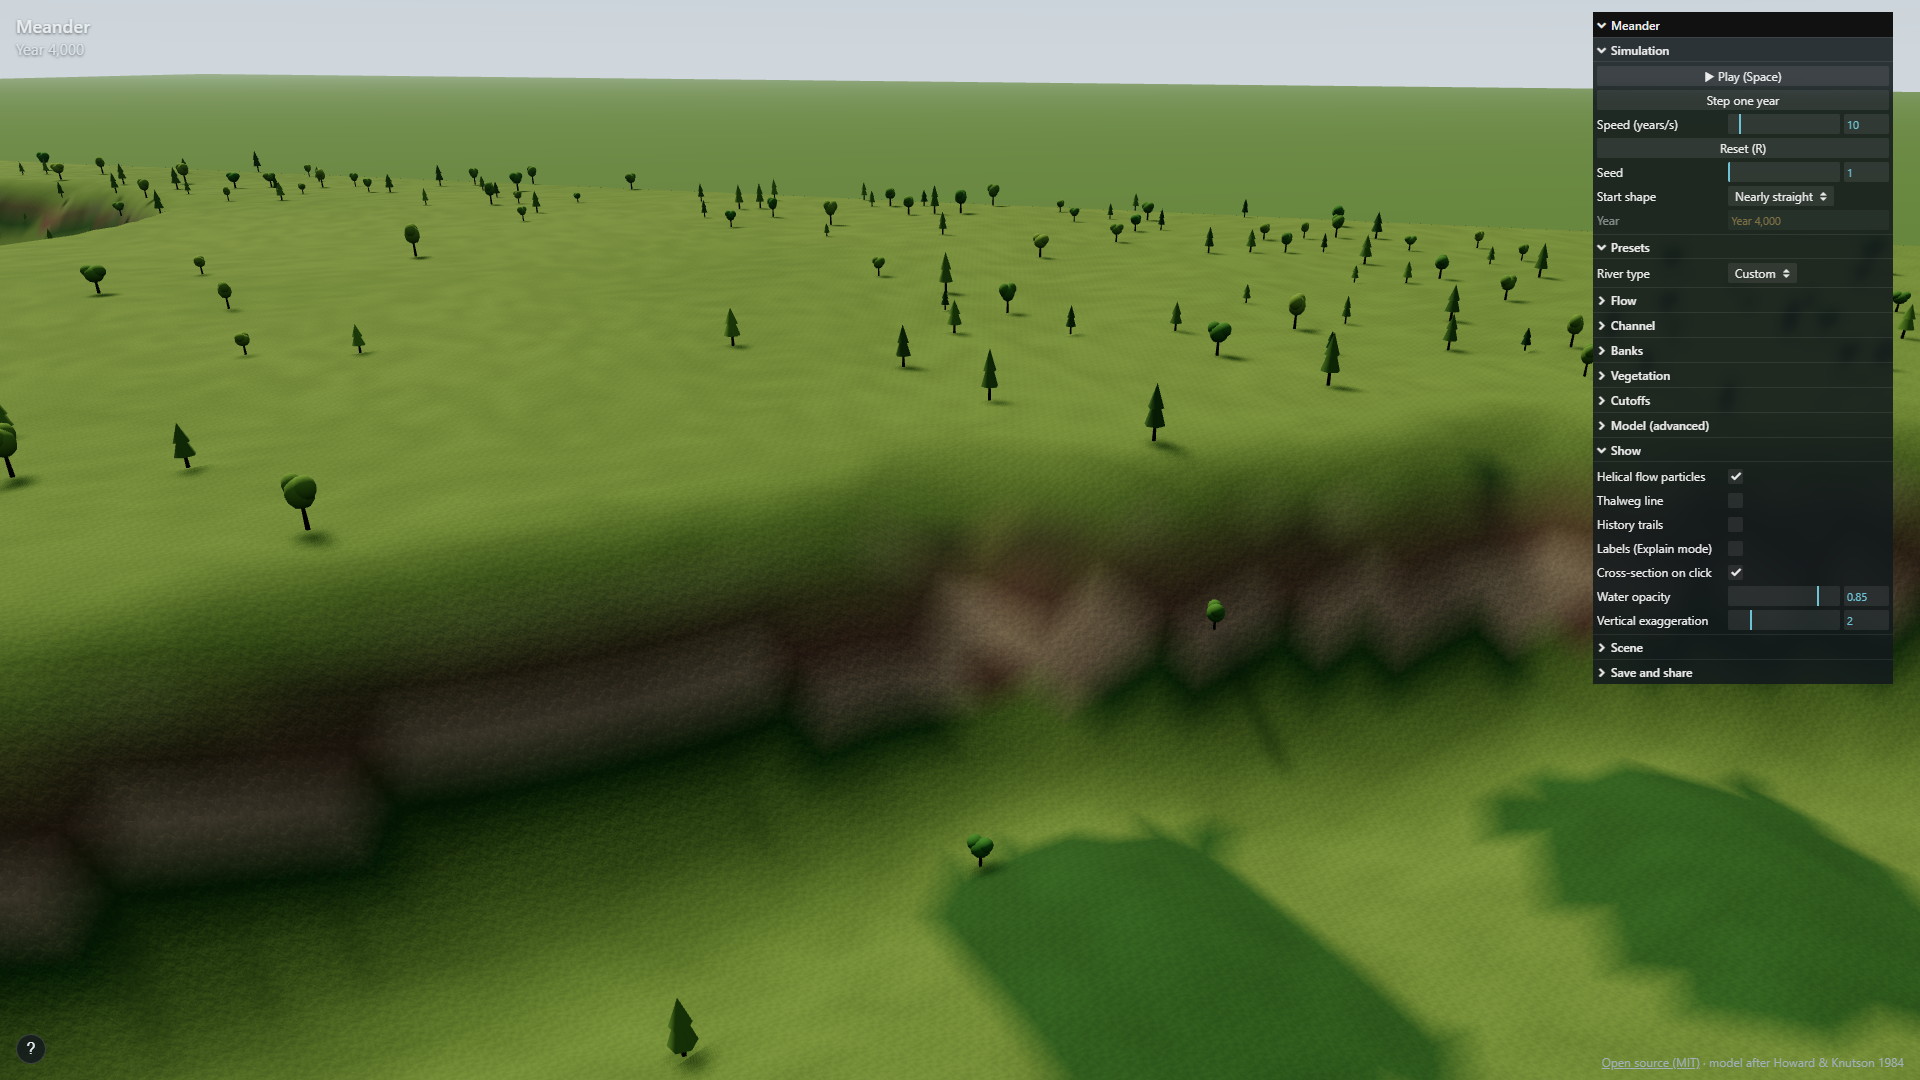
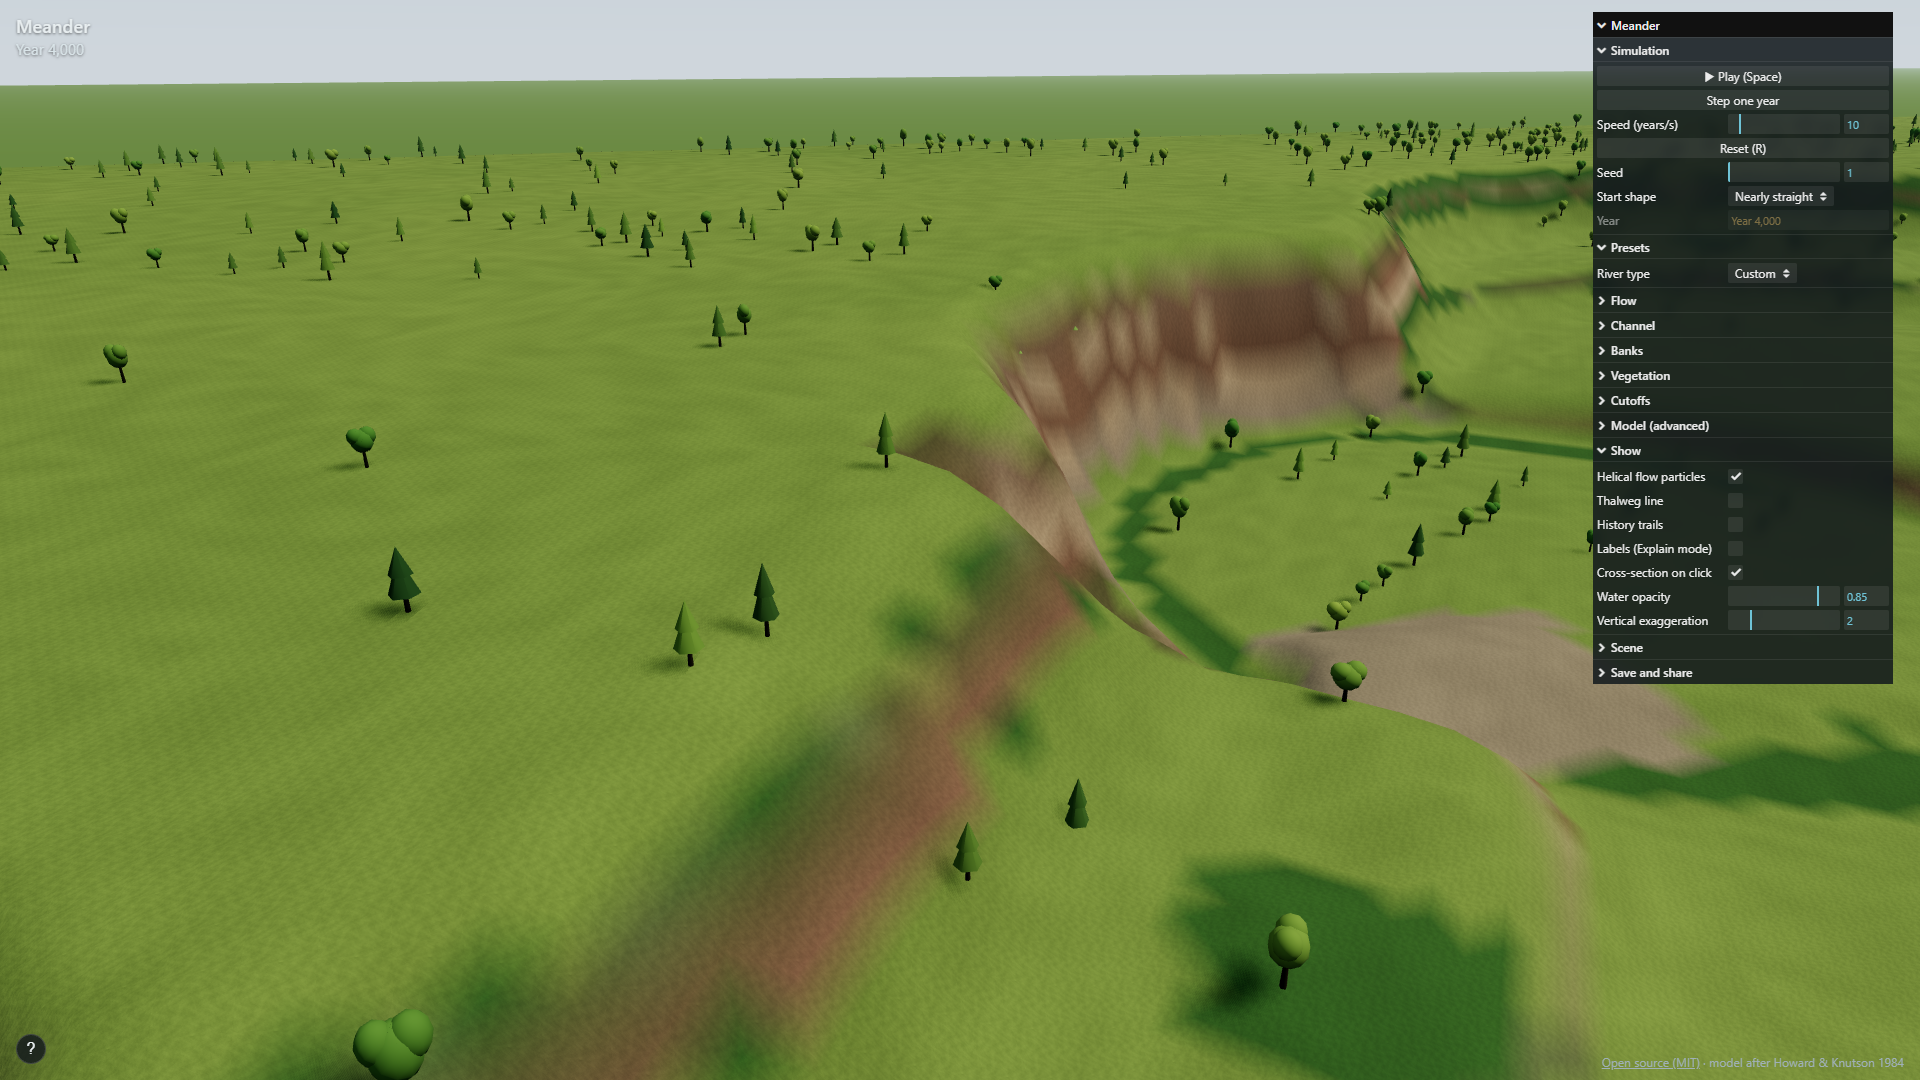
fix: review findings - floodplain rivers unchanged by gorge rules, settings move dams/gullies/rock layers, hostile gully saves, inlet starts without a jump
Claude-Session: https://claude.ai/code/session_014qz6KBxRRvPpjqXdUnTKtz

diff --git a/src/engine/engine.js b/src/engine/engine.js
@@ -12,7 +12,7 @@ import {
   migrationRate, migrate, findNeckCutoff, spliceCutoff, findChuteCutoff,
 } from './centreline.js';
 import {
-  createGrid, stampChannel, stampOxbow, retireOxbow, growLand, sampleErodibility, paintRock, cellsNear, rebase, effectiveDepth, cellIndex, setAlluvium, stampBraided,
+  createGrid, baseLevel, stampChannel, stampOxbow, retireOxbow, growLand, sampleErodibility, paintRock, cellsNear, rebase, effectiveDepth, cellIndex, setAlluvium, stampBraided,
 } from './floodplain.js';
 import { relaxSlopes, findSlideSite, landslide, newGully, growGully } from './hillslope.js';
 import { fillPond } from './dams.js';
@@ -108,7 +108,8 @@ export class Engine {
     this.year = st.year;
     this.tickCount = st.tickCount;
     this.x = Float64Array.from(st.x); this.y = Float64Array.from(st.y);
-    this.inletY = st.inletY ?? VALLEY.width / 2;
+    this.inflowNoise = createNoise2D(this.settings.seed * 69621 + 13);
+    this.inletY = st.inletY ?? st.y[0] - this.inletSwing(st.year); // older saves: carry on from where the inlet is
     this.rate = Float64Array.from(st.rate); this.curv = Float64Array.from(st.curv); this.level = Float64Array.from(st.level);
     this.oxbows = st.oxbows.map((o) => ({ ...o, x: Float32Array.from(o.x), y: Float32Array.from(o.y), cells: Int32Array.from(o.cells) }));
     this.oxbowCount = st.oxbowCount;
@@ -122,7 +123,6 @@ export class Engine {
     this.braid = st.braid ?? 0;
     this.braidTime = st.braidTime ?? 0;
     this.braidNoise = createNoise2D(this.settings.seed * 48271 + 5);
-    this.inflowNoise = createNoise2D(this.settings.seed * 69621 + 13);
     this.threads = null;
     this.slides = (st.slides || []).map((v) => ({ x: v.x, y: v.y, dirx: v.dirx, diry: v.diry, width: v.width, age: v.age }));
     this.slideMarks = (st.slideMarks || []).map((v) => ({ x: v.x, y: v.y, year: v.year }));
@@ -161,6 +161,11 @@ export class Engine {
     Object.assign(this.settings, partial);
     if (partial.alluviumDepth !== undefined) setAlluvium(this.grid, this.settings.alluviumDepth);
     if (partial.valleySlope !== undefined || partial.bankHeight !== undefined) {
+      // Dam crests and gully mouths are heights on the ground: they move with it.
+      const old = { valleySlope: this.grid.slope, bankHeight: this.grid.bankHeight };
+      const shift = (x) => baseLevel(x, this.settings) - baseLevel(x, old);
+      for (const d of this.dams) d.crest += shift(d.x);
+      for (const v of this.gullies) if (Number.isFinite(v.footZ)) v.footZ += shift(v.x);
       rebase(this.grid, this.settings);
       this.computeLevels();
     }
@@ -254,6 +259,12 @@ export class Engine {
       }
     }
     this.threads = { offsets, tx, ty, width, widths, half };
+  }
+
+  // How far the entry point has swung from where it started, metres.
+  inletSwing(year) {
+    const T = CENTRELINE.inflowYears;
+    return CENTRELINE.inletWander * this.settings.channelWidth * 2 * (this.inflowNoise(year / T, 0.37) - this.inflowNoise(0, 0.37));
   }
 
   triggerFlood() { this.floodPending = true; }
@@ -353,12 +364,14 @@ export class Engine {
     // Tall banks only matter once the river is cutting down (terraces). On a
     // river that is not, a bank can look tall just because the water profile
     // follows the river's length while the floodplain follows the valley.
-    const tall = this.incision > 0 || this.knickpoints.length ? Engine.bankFactor(actualBank, s.bankHeight) : 1;
-    // Tall and rocky banks together never slow the river below gorgeBankFloor:
-    // their faces keep failing (slumps, landslides) and the river carries the
-    // debris away, so an entrenched river still winds and cuts off loops.
-    const gorge = rock * tall < 1 ? Math.max(CENTRELINE.gorgeBankFloor, rock * tall) : 1;
-    return wall * exit * ground * gorge;
+    const cutting = this.incision > 0 || this.knickpoints.length > 0;
+    const tall = cutting ? Engine.bankFactor(actualBank, s.bankHeight) : 1;
+    // In a gorge, tall and rocky banks together never slow the river below
+    // gorgeBankFloor: their faces keep failing (slumps, landslides) and the
+    // river carries the debris away, so an entrenched river still winds and
+    // cuts off loops.
+    const bank = cutting ? Math.max(CENTRELINE.gorgeBankFloor, Math.min(1, rock * tall)) : rock;
+    return wall * exit * ground * bank;
   }
 
   updateDischarge() {
@@ -420,7 +433,7 @@ export class Engine {
     // 3. Move, re-space. Bends passing just upstream of the valley swing
     // the river's entry point slowly from side to side.
     migrate(this.x, this.y, rate, DT);
-    const yIn = this.inletY + CENTRELINE.inletWander * W * (2 * this.inflowNoise(this.year / CENTRELINE.inflowYears, 0.37) - 1);
+    const yIn = this.inletY + this.inletSwing(this.year);
     for (let i = 0; i < prot; i++) this.y[i] = yIn;
     if (CENTRELINE.smoothingPasses > 0) {
       smooth(this.x, CENTRELINE.smoothingPasses);
@@ -485,6 +498,7 @@ export class Engine {
       rate: this.rate.length === n ? this.rate : new Float64Array(n),
       level: this.level,
       dt: DT,
+      cutting: this.incision > 0 || this.knickpoints.length > 0,
     };
     if (this.threads) stampBraided(this.grid, river, this.threads, this.settings, this.flood);
     else stampChannel(this.grid, river, this.settings, this.year, this.flood);
@@ -725,7 +739,7 @@ export class Engine {
         o.draining = true;
         o.drainRate = o.depth / HILLS.drainYears;
       }
-      o.depth -= o.draining ? Math.max(rate, o.drainRate * DT) : rate;
+      o.depth -= o.draining ? Math.max(rate, (o.drainRate || 0) * DT) : rate;
       if (o.depth <= 0) {
         retireOxbow(this.grid, o);
         if (o.draining) {

diff --git a/src/engine/savefile.js b/src/engine/savefile.js
@@ -6,7 +6,7 @@
 // { $ta: type, o: byte offset, n: length } into the data block. Infinity and
 // -Infinity (JSON cannot hold them) are written as { $num: 'inf' | '-inf' }.
 // Compression (gzip) is left to the caller, since it is async in browsers.
-import { QUALITY, VALLEY, defaults } from '../config.js';
+import { QUALITY, VALLEY, HILLS, defaults } from '../config.js';
 import { sanitizeSettings } from '../settings.js';
 
 export const SAVE_VERSION = 1;
@@ -107,7 +107,7 @@ export function validateState(state) {
     if (!(o.cells instanceof Int32Array) || o.cells.some((i) => i < 0 || i >= n)) fail('oxbow cells');
     for (const k of ['id', 'age', 'depth', 'width', 'year', 'cx', 'cy', 'level', 'lastStampDepth']) if (!num(o[k], -1e6, 1e9)) fail(`oxbow ${k}`);
     if (o.draining !== undefined && typeof o.draining !== 'boolean') fail('oxbow draining');
-    if (o.drainRate !== undefined && !num(o.drainRate, 0, 1e6)) fail('oxbow drain rate');
+    if ((o.draining || o.drainRate !== undefined) && !num(o.drainRate, 0, 1e6)) fail('oxbow drain rate');
   }
   for (const h of state.history) {
     if (!num(h.year, -1, 1e9) || !finite(h.x) || !finite(h.y) || h.x.length !== h.y.length || h.x.length > 50000) fail('history');
@@ -144,10 +144,17 @@ export function validateState(state) {
     if (!(d.cells instanceof Int32Array) || d.cells.length > n || d.cells.some((i) => i < 0 || i >= n)) fail('dam lake');
   }
   if (state.damCount !== undefined && (!Number.isInteger(state.damCount) || state.damCount < 0)) fail('dam count');
-  for (const v of list('gullies', 200)) {
-    if (!at(v) || !nums(v, ['dirx', 'diry'], -1.01, 1.01) || !nums(v, ['length', 'maxLength', 'age'], 0, 1e7)) fail('gully');
+  // Gullies no bigger than the engine makes: their cost each step follows their size.
+  const maxPoints = Math.ceil(HILLS.gullyMaxLength / 40) + 3;
+  for (const v of list('gullies', HILLS.maxGullies)) {
+    if (!at(v) || !nums(v, ['dirx', 'diry'], -1.01, 1.01) || !num(v.age, 0, 1e9)
+      || !num(v.maxLength, 0, HILLS.gullyMaxLength + 1) || !num(v.length, 0, v.maxLength)) fail('gully');
     if (!(v.footZ === Infinity || num(v.footZ, -1e5, 1e5))) fail('gully mouth');
-    if (!Array.isArray(v.px) || !Array.isArray(v.py) || v.px.length !== v.py.length || v.px.length < 2 || v.px.length > 1000
+    if (!Array.isArray(v.px) || !Array.isArray(v.py) || v.px.length !== v.py.length || v.px.length < 2 || v.px.length > maxPoints
       || !inside(v.px, v.py)) fail('gully course');
+    for (let k = 1; k < v.px.length; k++) {
+      const dx = v.px[k] - v.px[k - 1], dy = v.py[k] - v.py[k - 1];
+      if (dx * dx + dy * dy > 45 * 45) fail('gully course');
+    }
   }
 }

diff --git a/src/engine/hillslope.js b/src/engine/hillslope.js
@@ -3,13 +3,14 @@
 // layers stand as cliffs, soft ones as slopes, so walls step), and rockfall
 // that sheds rock from steep faces onto scree at their foot.
 import { VALLEY, SURFACE, FLOODPLAIN, HILLS } from '../config.js';
-import { effectiveDepth } from './floodplain.js';
+import { effectiveDepth, baseLevel } from './floodplain.js';
 import { sin, cos } from './dmath.js';
 
 // 1 in a hard rock layer, 0 in a soft one. Layers are flat beds that dip
-// with the valley, so a layer keeps its height above the valley floor.
-export function rockHardness(z, x, valleySlope) {
-  const t = (z - valleySlope * (VALLEY.length - x)) / HILLS.layerThickness + 0.3;
+// with the valley, measured from the original floodplain, so they move with
+// the ground when the valley slope or bank height changes.
+export function rockHardness(z, x, settings) {
+  const t = (z - baseLevel(x, settings)) / HILLS.layerThickness + 0.3;
   return t - Math.floor(t) < HILLS.hardFraction ? 1 : 0;
 }
 
@@ -29,10 +30,9 @@ export function relaxSlopes(grid, settings, dt = 1) {
   const creepMin = cell * HILLS.creepMinSlope;
   const creep = Math.min(0.2, (HILLS.creep * dt) / (passes * cell * cell));
   const fall = (HILLS.rockfall * dt) / passes;
-  const slope = settings.valleySlope;
   const D = effectiveDepth(settings);
   const bank = settings.bankHeight;
-  const rockLimit = (z, x) => (rockHardness(z, x, slope) ? hardRock : softRock);
+  const rockLimit = (z, x) => (rockHardness(z, x, settings) ? hardRock : softRock);
   // Dry cell `d` beside river cell `r`: no higher than one stable step above
   // the floodplain that river builds.
   const bluff = (d, r, x) => {

diff --git a/test/save-hostile.test.js b/test/save-hostile.test.js
@@ -34,6 +34,25 @@ describe('hostile saves', () => {
   it('rejects a gully with a huge course', () => rejects((s) => {
     s.gullies = [{ x: 100, y: 100, dirx: 1, diry: 0, px: new Array(100000).fill(100), py: new Array(100000).fill(100), length: 10, maxLength: 300, footZ: 2, age: 1 }];
   }));
+  it('rejects more gullies than the engine ever makes', () => rejects((s) => {
+    s.gullies = Array.from({ length: 200 }, () => ({ x: 100, y: 100, dirx: 1, diry: 0, px: [100, 140], py: [100, 100], length: 10, maxLength: 300, footZ: 2, age: 1 }));
+  }));
+  it('rejects a gully longer than any the engine makes', () => rejects((s) => {
+    s.gullies = [{ x: 100, y: 100, dirx: 1, diry: 0, px: [100, 140], py: [100, 100], length: 10, maxLength: 1e7, footZ: 2, age: 1 }];
+  }));
+  it('rejects a gully whose course jumps across the valley', () => rejects((s) => {
+    s.gullies = [{ x: 100, y: 100, dirx: 1, diry: 0, px: [100, 5900], py: [100, 2900], length: 10, maxLength: 300, footZ: 2, age: 1 }];
+  }));
+  it('rejects a draining oxbow with no drain rate', () => rejects((s) => {
+    const e = new Engine({ ...defaults, quality: 'low' });
+    for (let i = 0; i < 400; i++) e.tick();
+    const n = e.x.length;
+    e.cutoff(Math.floor(n / 2) - 30, Math.floor(n / 2) + 30, 'neck');
+    e.tick();
+    Object.assign(s, e.serialize());
+    s.oxbows[0].draining = true;
+    delete s.oxbows[0].drainRate;
+  }));
   it('rejects a hanging loop that is not a list', () => rejects((s) => { s.hangingLoops = 'many'; }));
   it('rejects an oxbow with a strange drain flag', () => rejects((s) => {
     const e = new Engine({ ...defaults, quality: 'low' });

diff --git a/test/bedrock.test.js b/test/bedrock.test.js
@@ -28,8 +28,25 @@ describe('bedrock under the alluvium', () => {
     e.grid.bedrock.fill(1e3); // rock right up to the surface
     const k1 = e.localErodibility(i);
     expect(k1).toBeLessThan(k0);
-    // Rock alone would halve it, but no bank is slower than the gorge floor.
-    expect(k1).toBeCloseTo(k0 * Math.max(CENTRELINE.gorgeBankFloor, CENTRELINE.bedrockBankFactor), 6);
+    expect(k1).toBeCloseTo(k0 * CENTRELINE.bedrockBankFactor, 6);
+  });
+
+  it('a rock bank on a river cutting down is never slower than the gorge floor', () => {
+    const e = new Engine({ ...fast, incisionRate: 5 });
+    e.tick();
+    const i = Math.floor(e.x.length / 2);
+    const k0 = e.localErodibility(i);
+    e.grid.bedrock.fill(1e3);
+    expect(e.localErodibility(i)).toBeCloseTo(k0 * Math.max(CENTRELINE.gorgeBankFloor, CENTRELINE.bedrockBankFactor), 6);
+  });
+
+  it('is left alone by a river that is not cutting down, even when it runs over it', { timeout: 60000 }, () => {
+    const e = new Engine({ ...fast, alluviumDepth: 4 }); // pools reach the rock
+    const before = Float32Array.from(e.grid.bedrock);
+    for (let t = 0; t < 400; t++) e.tick();
+    let moved = 0;
+    for (let i = 0; i < before.length; i++) if (e.grid.bedrock[i] !== before[i]) moved++;
+    expect(moved).toBe(0);
   });
 
   it('is unreached by a river that is not incising', { timeout: 60000 }, () => {

diff --git a/src/engine/floodplain.js b/src/engine/floodplain.js
@@ -227,7 +227,7 @@ export function stampChannel(grid, river, settings, year, flood, sedimentSupply 
       const h = lvl - depth;
       if (channel[i] === 2) lakeLost[i] = 1; // the river has taken this bit of lake back
       if (channel[i] !== 3 || h < height[i] || Math.abs(height[i] - h) > 0.5) height[i] = h;
-      if (bedrock[i] > height[i]) { bedrock[i] = height[i]; grid.bedrockDirty = true; } // the river planes the rock (a strath)
+      if (river.cutting && bedrock[i] > height[i]) { bedrock[i] = height[i]; grid.bedrockDirty = true; } // a river cutting down planes the rock (a strath)
       channel[i] = 1;
       list.push(i);
       chanLevel[i] = lvl;
@@ -345,7 +345,7 @@ export function stampBraided(grid, river, braid, settings, flood) {
       const lvl = lvlOf[i];
       if (channel[i] === 2) lakeLost[i] = 1;
       height[i] = lvl - deepOf[i];
-      if (grid.bedrock[i] > height[i]) { grid.bedrock[i] = height[i]; grid.bedrockDirty = true; }
+      if (river.cutting && grid.bedrock[i] > height[i]) { grid.bedrock[i] = height[i]; grid.bedrockDirty = true; }
       channel[i] = 1;
       list.push(i);
       chanLevel[i] = lvl;

diff --git a/test/dam.test.js b/test/dam.test.js
@@ -60,6 +60,22 @@ describe('landslide dams', () => {
     expect(e.rate[j - 10]).toBe(0);
   });
 
+  it('move with the ground when the valley slope changes', { timeout: LONG }, () => {
+    const e = new Engine({ ...defaults, quality: 'low', incisionRate: 10 });
+    run(e, 300);
+    e.makeDam(Math.floor(e.x.length * 0.6), 1.2);
+    const d = e.dams[0];
+    const above = d.crest - d.natural;
+    const g = e.grid;
+    const at = Math.min(g.cols - 1, Math.floor(d.x / g.cell)) + Math.min(g.rows - 1, Math.floor(d.y / g.cell)) * g.cols;
+    const ground = g.height[at];
+    const crest = d.crest;
+    e.applySettings({ valleySlope: 0.002 });
+    expect(e.dams.length).toBe(1);
+    expect(d.crest - crest).toBeCloseTo(g.height[at] - ground, 1); // the cell centre is a few metres from the dam
+    expect(d.crest - d.natural).toBeCloseTo(above, 1);
+  });
+
   it('wear away and are gone within a few hundred years', { timeout: LONG }, () => {
     HILLS.damFailChance = 0;
     const e = new Engine({ ...defaults, quality: 'low', incisionRate: 10 });

diff --git a/test/hillslope.test.js b/test/hillslope.test.js
@@ -50,9 +50,17 @@ describe('valley walls', () => {
     expect(g.height[i]).toBeCloseTo(0.3, 5);
   });
 
+  it('rock layers move with the ground when the bank height or valley slope changes', () => {
+    const a = { valleySlope: 0.0005, bankHeight: 4 }, b = { valleySlope: 0.0005, bankHeight: 7 }, c = { valleySlope: 0.002, bankHeight: 4 };
+    for (let z = 0; z < 60; z += 0.7) {
+      expect(rockHardness(z + 3, 1000, b)).toBe(rockHardness(z, 1000, a));
+      expect(rockHardness(z + 0.0015 * 5000, 1000, c)).toBe(rockHardness(z, 1000, a));
+    }
+  });
+
   it('bedrock alternates hard and soft layers', () => {
     const seen = new Set();
-    for (let z = 0; z < 40; z += 0.5) seen.add(rockHardness(z, 1000, settings.valleySlope));
+    for (let z = 0; z < 40; z += 0.5) seen.add(rockHardness(z, 1000, settings));
     expect(seen.has(0)).toBe(true);
     expect(seen.has(1)).toBe(true);
     expect(HILLS.layerThickness).toBeGreaterThan(2);

diff --git a/test/gorge.test.js b/test/gorge.test.js
@@ -52,6 +52,23 @@ describe('rivers in gorges', () => {
     expect(e.findFeatures().some((f) => f.type === 'hangingloop')).toBe(true);
   });
 
+  it('start their swinging inlet without a jump, new or loaded from an older save', () => {
+    for (const seed of [1, 2, 3, 4, 5]) {
+      const e = new Engine({ ...defaults, quality: 'low', seed });
+      const y0 = e.y[0];
+      e.tick();
+      expect(Math.abs(e.y[0] - y0)).toBeLessThan(1);
+    }
+    const e = new Engine({ ...defaults, quality: 'low', seed: 2 });
+    run(e, 300);
+    const st = e.serialize();
+    delete st.inletY;
+    const c = Engine.fromState(st);
+    const y0 = c.y[0];
+    c.tick();
+    expect(Math.abs(c.y[0] - y0)).toBeLessThan(1);
+  });
+
   it('let an oxbow on a river that is not cutting down silt up as usual', { timeout: LONG }, () => {
     const e = new Engine({ ...defaults, quality: 'low' });
     run(e, 200);

diff --git a/test/gully.test.js b/test/gully.test.js
@@ -51,6 +51,16 @@ describe('gullies', () => {
     expect(raised).toBeGreaterThan(3);
   });
 
+  it('keep their mouth at the ground when the bank height changes', { timeout: LONG }, () => {
+    const e = new Engine({ ...defaults, quality: 'low', incisionRate: 15 });
+    for (let i = 0; i < 3000 / DT; i++) e.tick();
+    const v = e.gullies.find((u) => Number.isFinite(u.footZ));
+    expect(v).toBeTruthy();
+    const foot = v.footZ;
+    e.applySettings({ bankHeight: e.settings.bankHeight + 3 });
+    expect(v.footZ - foot).toBeCloseTo(3, 3);
+  });
+
   it('appear in the walls of a deeply incised valley', { timeout: LONG }, () => {
     const e = new Engine({ ...defaults, quality: 'low', incisionRate: 15 });
     for (let i = 0; i < 3000 / DT; i++) e.tick();

diff --git a/src/render/terrain.js b/src/render/terrain.js
@@ -284,7 +284,7 @@ export function createTerrain() {
             const k = frac * Math.min(1, Math.max(0, (span / cell - 0.3) * 2));
             if (k > 0 && (s !== W || hi - h0 > st.bankHeight + 2)) {
               // Hard layers pale buff, soft layers red-brown, with faint bedding in each.
-              const C = rockHardness(h0, (cx + 0.5) * cell, st.valleySlope) ? RH : RS;
+              const C = rockHardness(h0, (cx + 0.5) * cell, st) ? RH : RS;
               const band = 0.92 + 0.08 * Math.sin(h0 * 2.1 + meadow[i] * 3);
               r += (C[0] * band - r) * k; g += (C[1] * band - g) * k; b += (C[2] * band - b) * k;
             }

diff --git a/test/golden.test.js b/test/golden.test.js
@@ -13,9 +13,9 @@ import { fingerprint } from './helpers.js';
 // 2026-11-02 (v1.2): re-pinned on purpose: the river's entry point now
 // swings slowly, so the reach below the inlet winds instead of staying straight.
 const GOLDEN = {
-  1: '40d5b3c9:406:2',
-  2: 'f7ed49c0:353:1',
-  3: 'cd7952ca:351:1',
+  1: 'e986ee6d:423:2',
+  2: '566a1094:357:0',
+  3: 'c96fb48f:357:0',
 };
 
 describe('default rivers are unchanged', () => {
